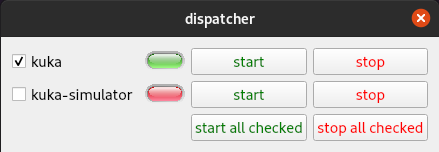
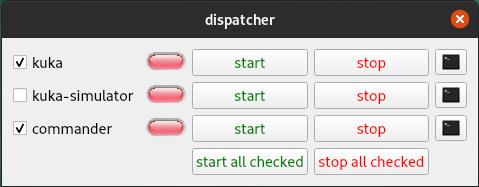
Add ability to start gnome-terminal

diff --git a/src/dispatch_item.cc b/src/dispatch_item.cc
@@ -74,9 +74,15 @@ dispatcher::DispatchItem::DispatchItem(
   layout->addWidget(stop, index_, 3);
   connect(stop, SIGNAL(clicked()), this, SLOT(StopCb()));
 
+  QPushButton *terminal = new QPushButton(this);
+  terminal->setIcon(QIcon(":/icons/terminal.png"));
+  terminal->setIconSize(QSize(20, 20));
+  layout->addWidget(terminal, index_, 4);
+  connect(terminal, SIGNAL(clicked()), this, SLOT(TerminalCb()));
+
   QSpacerItem *spacer =
     new QSpacerItem(0, 0, QSizePolicy::Expanding, QSizePolicy::Minimum);
-  layout->addItem(spacer, index_, 4);
+  layout->addItem(spacer, index_, 5);
 }
 
 bool dispatcher::DispatchItem::is_checked() {
@@ -100,6 +106,7 @@ void dispatcher::DispatchItem::Process() {
   bool previous_state = online_;
   online_ = false;
   for(auto& online_node : online_nodes_) {
+    // std::cout << online_node.first << online_node.second << std::endl;
     if(node_namespace_ == online_node.first && 
        node_name_ == online_node.second) {
       online_ = true;
@@ -173,4 +180,17 @@ void dispatcher::DispatchItem::StopCb() {
   std::string system_call = "tmux kill-session -t " + name_;
   int result = system(system_call.c_str());
   (void)result;
+}
+
+
+void dispatcher::DispatchItem::TerminalCb() {
+  if(online_) {
+    CFW_INFO("Attaching to tmux session: %s", name_.c_str());
+    std::string system_call = "gnome-terminal -- tmux a -t " + name_;
+    int result = system(system_call.c_str());
+    (void)result;
+  } else {
+    CFW_WARN("Not attempting to attach to tmux session %s when node has offline status", 
+        name_.c_str());
+  }
 }

diff --git a/src/dispatch_item.h b/src/dispatch_item.h
@@ -34,6 +34,7 @@ public:
 public slots:
   void StartCb();
   void StopCb();
+  void TerminalCb();
 
 private:
 

diff --git a/README.md b/README.md
@@ -1,2 +1,46 @@
 # Dispatcher
 
+A dynamically reconfigurable widget for starting, stopping and monitoring ROS2 nodes
+
+![dispatcher](doc/dispatcher.png)
+
+This package provides a Qt Widget with buttons dynamically configured from a yaml input file. Nodes are launched in a detached tmux session. You can attach to the tmux session from any terminal, or from
+multiple terminals.
+
+The yaml config file contains the workspace location and settings for a number of ros2 nodes
+
+Consider the following `example.yaml` config:
+```yaml
+workspace: /opt/testbed_ws
+nodes:
+  - name: kuka       # name used for the button and for the tmux session, each one must be unique
+    namespace: kuka  # namespace of ros2 node to monitor
+    node_name: /kuka # name of ros2 node to monitor
+    cmd: ros2 run kuka kuka --ros-args -p kuka_rsi_config_path:=storm_launch/cfg/kuka/kuka_offline.yaml 
+    # command to launch node, you can also use ros2 launch to bring up launch files or call the executable directly
+    start_checked: true
+  - name: commander
+    namespace: Commander
+    node_name: /
+    cmd: ros2 run commander commander
+    start_checked: true
+```
+
+Start `dispatcher` in your workspace by running:
+```bash
+cd /opt/testbed_ws
+source install/setup.bash
+ros2 run dispatcher dispatcher --ros-args -p dispatcher_config_path:=/path/to/example.yaml
+```
+
+Click on the start button to begin the node, or click "start all checked" to start all currently
+checked nodes.  A green light should appear next to each node. To attach to the commander session, you can run the following in a terminal:
+
+To attach to a running tmux session, you can click the terminal icon to the right of the stop button. This button launches a new gnome-terminal session and attaches to a tmux session:
+
+```bash
+gnome-terminal -- tmux a -t commander 
+```
+
+
+